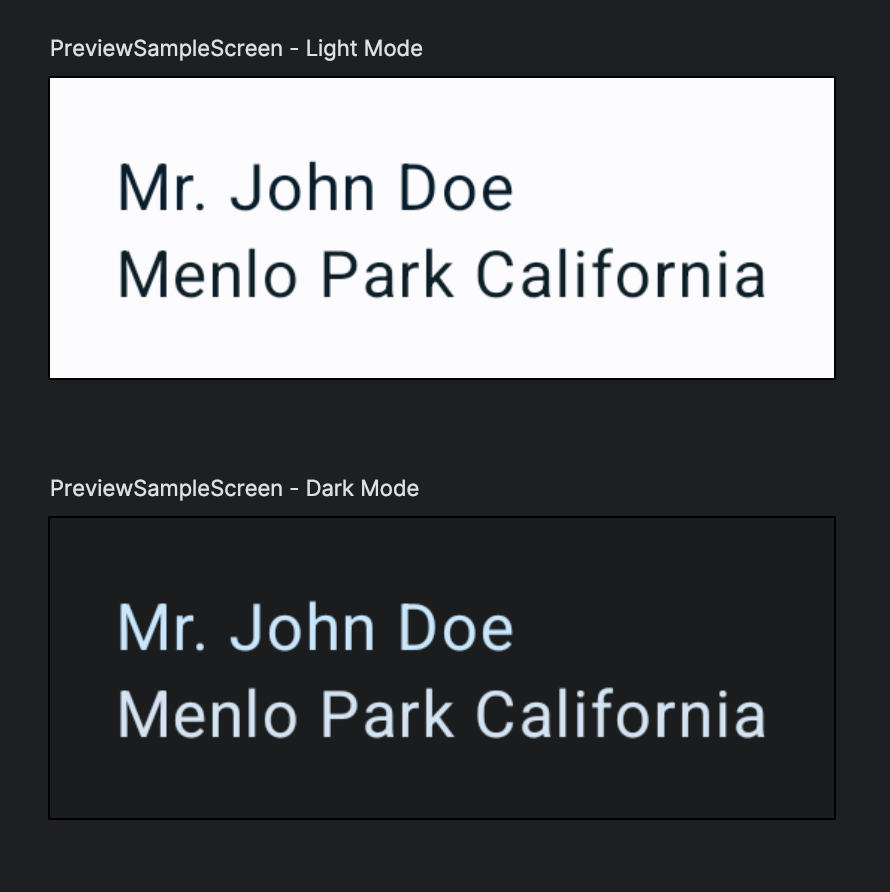
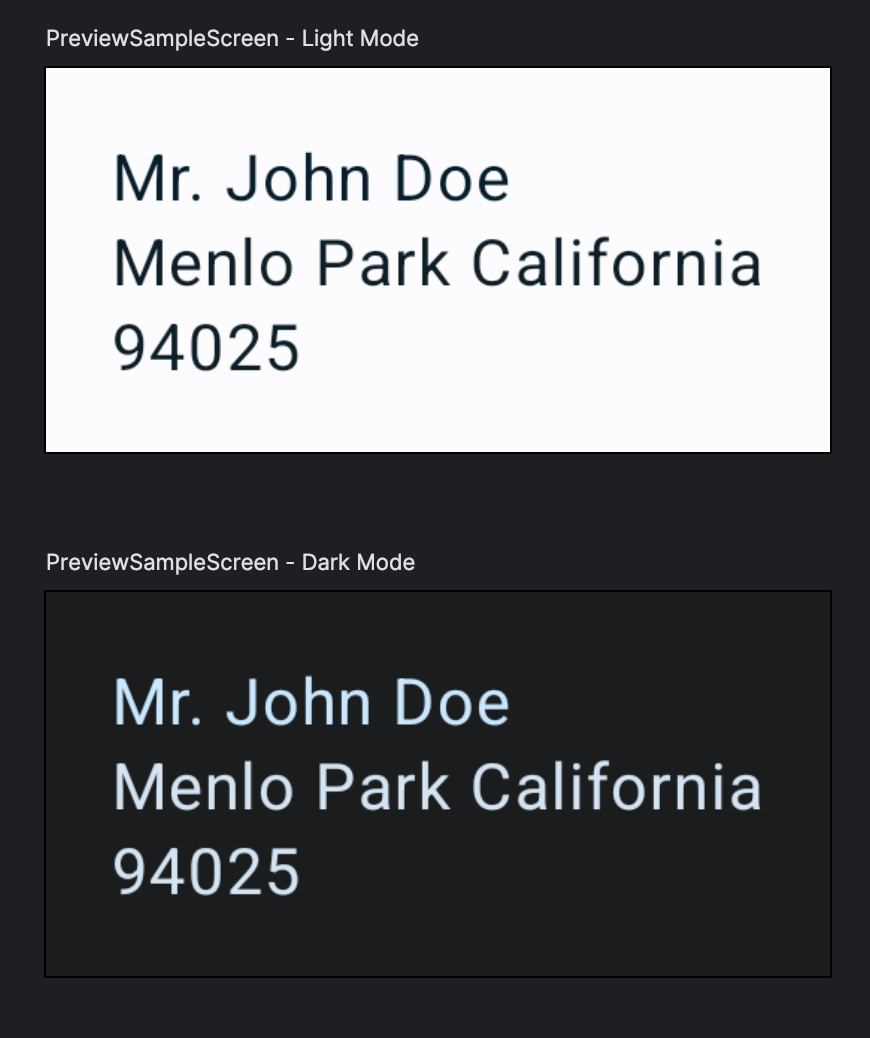
Updating readme

diff --git a/README.md b/README.md
@@ -30,13 +30,17 @@ dependencies {
 #### SampleScreen.kt
 ```kotlin 
 
+@Composable
+@Preview(name = "Light Mode", showBackground = true)
 @Preview(name = "Dark Mode", uiMode = Configuration.UI_MODE_NIGHT_YES, showBackground = true)
 fun PreviewSampleScreen() {
     val analytics = mockPreview<Analytics>()
     val dataSource = mockPreview<DataSource> {
-        forThis { title } returns "JohDoe"
+        forThis { title } returns "Mr. John Doe"
         forThis { address } returns "Menlo Park California"
     }
+    mockPreviewObject(SampleInput)
+    forThis { SampleInput.input } returns "94025"
     val sampleScreen = SampleScreen(analytics, dataSource)
     MockPreviewTheme {
         sampleScreen.Render()
